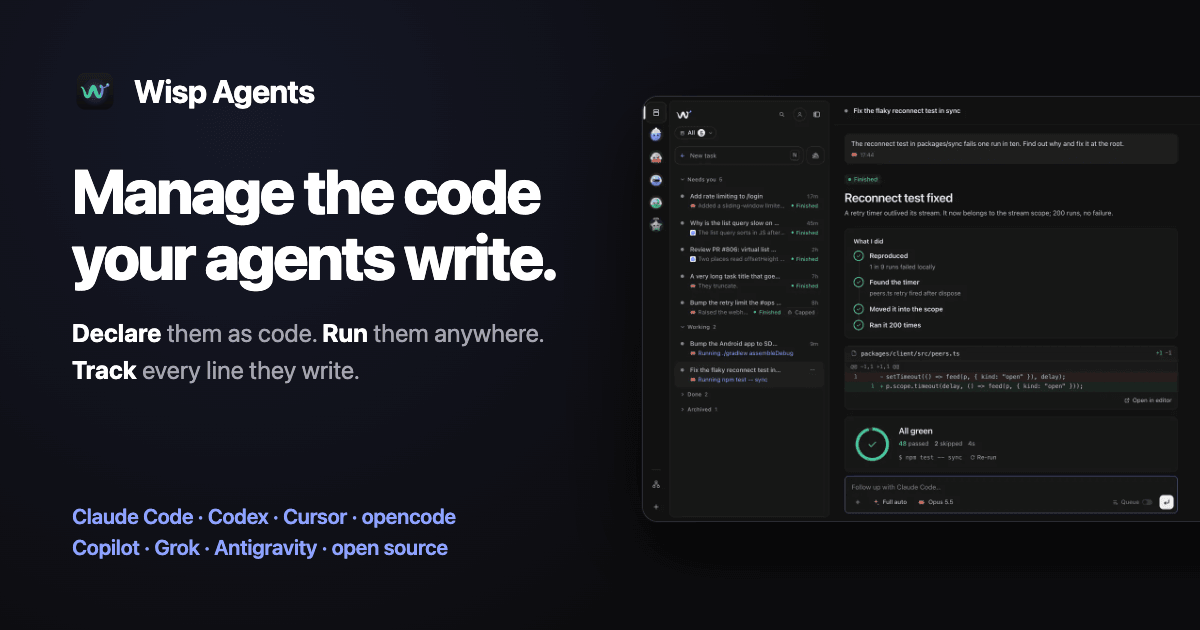
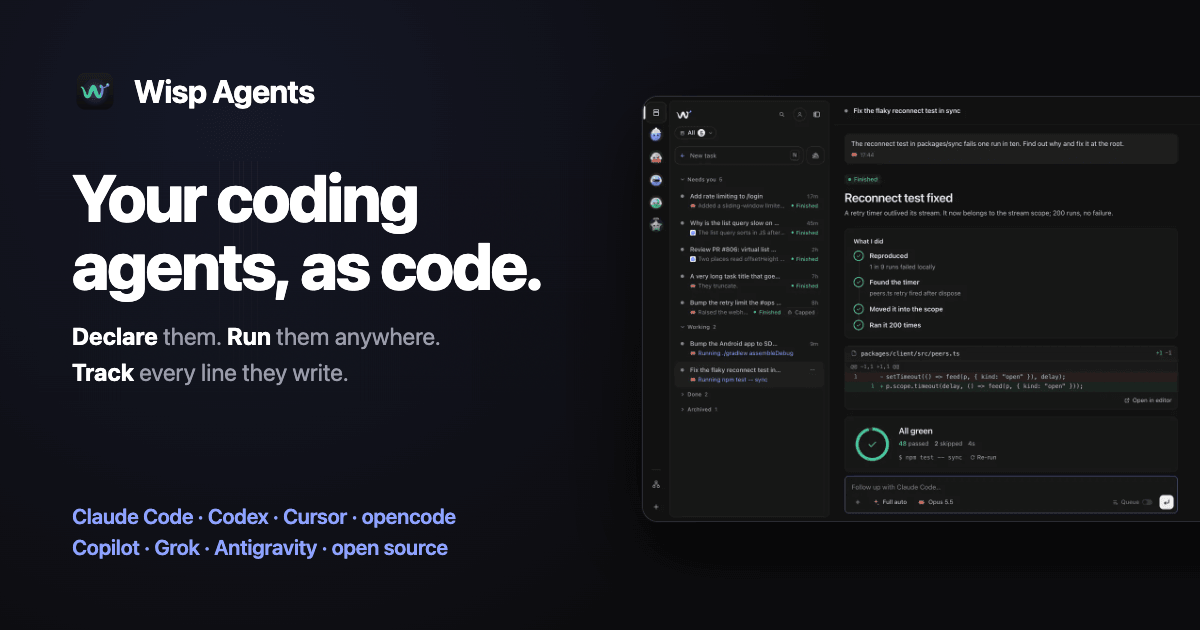
chore(site): headline 'Your coding agents, as code.' replaces 'Manage the code your agents write'
README, site (scripts/site.mjs, regenerated), docs hero and SEO alts, npm description, llms.txt and the og card.

Changed region(s): [[0.0617, 0.2714, 0.4625, 0.4825], [0.0617, 0.5127, 0.4625, 0.6032]]

diff --git a/docs/app.html b/docs/app.html
@@ -20,19 +20,19 @@
 <meta property="og:image" content="https://trywisp.dev/assets/og.png" />
 <meta property="og:image:width" content="1200" />
 <meta property="og:image:height" content="630" />
-<meta property="og:image:alt" content="Wisp Agents: manage the code your agents write" />
+<meta property="og:image:alt" content="Wisp Agents: your coding agents, as code" />
 <meta name="twitter:card" content="summary_large_image" />
 <meta name="twitter:site" content="@trywispagents" />
 <meta name="twitter:title" content="Download Wisp Agents — macOS, Windows, Linux &amp; Phone" />
 <meta name="twitter:description" content="Download the Wisp Agents desktop app for macOS, Windows and Linux, or join the iPhone and Android waitlist. Run and follow coding agents from anywhere." />
 <meta name="twitter:image" content="https://trywisp.dev/assets/og.png" />
-<meta name="twitter:image:alt" content="Wisp Agents: manage the code your agents write" />
+<meta name="twitter:image:alt" content="Wisp Agents: your coding agents, as code" />
 <link rel="icon" href="/favicon.ico" sizes="48x48" />
 <link rel="icon" href="/assets/icon.svg" type="image/svg+xml" />
 <link rel="apple-touch-icon" href="/assets/apple-touch-icon.png" sizes="180x180" />
 <link rel="sitemap" type="application/xml" href="/sitemap.xml" />
 <link rel="alternate" type="text/plain" href="/llms.txt" title="llms.txt" />
-<script type="application/ld+json">{"@context":"https://schema.org","@graph":[{"@type":"BreadcrumbList","itemListElement":[{"@type":"ListItem","position":1,"name":"Wisp Agents","item":"https://trywisp.dev/"},{"@type":"ListItem","position":2,"name":"Get the app","item":"https://trywisp.dev/app.html"}]},{"@type":"SoftwareApplication","@id":"https://trywisp.dev/app.html#app","name":"Wisp Agents","alternateName":["wisp","wisp-agents"],"softwareVersion":"1.0.0-alpha.14","url":"https://trywisp.dev/","description":"Open-source app, TUI and CLI to run Claude Code, Codex, Cursor and other coding agents in parallel, declare them as code, and track every line they write.","applicationCategory":"DeveloperApplication","operatingSystem":"macOS, Windows, Linux","license":"https://opensource.org/licenses/MIT","codeRepository":"https://github.com/WispAgents/wisp","offers":{"@type":"Offer","price":"0","priceCurrency":"USD"},"downloadUrl":"https://github.com/WispAgents/wisp/releases/latest","installUrl":"https://trywisp.dev/app.html","softwareHelp":"https://trywisp.dev/docs/","screenshot":"https://trywisp.dev/assets/app/desktop-task-light-1440.webp","author":{"@id":"https://trywisp.dev/#org"}}]}</script>
+<script type="application/ld+json">{"@context":"https://schema.org","@graph":[{"@type":"BreadcrumbList","itemListElement":[{"@type":"ListItem","position":1,"name":"Wisp Agents","item":"https://trywisp.dev/"},{"@type":"ListItem","position":2,"name":"Get the app","item":"https://trywisp.dev/app.html"}]},{"@type":"SoftwareApplication","@id":"https://trywisp.dev/app.html#app","name":"Wisp Agents","alternateName":["wisp","wisp-agents"],"softwareVersion":"1.0.0-alpha.16","url":"https://trywisp.dev/","description":"Open-source app, TUI and CLI to run Claude Code, Codex, Cursor and other coding agents in parallel, declare them as code, and track every line they write.","applicationCategory":"DeveloperApplication","operatingSystem":"macOS, Windows, Linux","license":"https://opensource.org/licenses/MIT","codeRepository":"https://github.com/WispAgents/wisp","offers":{"@type":"Offer","price":"0","priceCurrency":"USD"},"downloadUrl":"https://github.com/WispAgents/wisp/releases/latest","installUrl":"https://trywisp.dev/app.html","softwareHelp":"https://trywisp.dev/docs/","screenshot":"https://trywisp.dev/assets/app/desktop-task-light-1440.webp","author":{"@id":"https://trywisp.dev/#org"}}]}</script>
 <style>:root{color-scheme:light dark;--bg:#f7f6f3;--bg2:#efede8;--card:#ffffff;--fg:#17171a;--muted:#55555e;--line:#e3e1db;--accent:#3f5ce0;--accent-fg:#ffffff;--ok:#157f4a;--code:#f1efea;--shadow:0 1px 2px rgb(0 0 0 / 0.05),0 12px 40px -12px rgb(20 20 40 / 0.18);--r:14px;--mono:ui-monospace,'SF Mono',SFMono-Regular,Menlo,Consolas,'Liberation Mono',monospace;--sans:system-ui,-apple-system,'Segoe UI',Roboto,'Helvetica Neue',Arial,sans-serif;--wrap:1160px;--pad:clamp(16px,4vw,32px)}@media (prefers-color-scheme:dark){:root{--bg:#0d0d0f;--bg2:#131316;--card:#17171b;--fg:#ececf0;--muted:#a0a0ab;--line:#2a2a30;--accent:#8ea2ff;--accent-fg:#0d0d0f;--ok:#4ccf8a;--code:#1b1b20;--shadow:0 1px 2px rgb(0 0 0 / 0.4),0 20px 50px -20px rgb(0 0 0 / 0.7)}}*,*::before,*::after{box-sizing:border-box}html{-webkit-text-size-adjust:100%;scroll-padding-top:72px}body{margin:0;background:var(--bg);color:var(--fg);font:16px/1.6 var(--sans);overflow-wrap:break-word}img{max-width:100%;height:auto;display:block}a{color:var(--accent);text-underline-offset:3px}a:hover{text-decoration-thickness:2px}:focus-visible{outline:2px solid var(--accent);outline-offset:2px;border-radius:6px}h1,h2,h3{line-height:1.15;letter-spacing:-0.02em;margin:0 0 0.5em;text-wrap:balance}h1{font-size:clamp(2.1rem,5.6vw,3.9rem);letter-spacing:-0.025em}h2{font-size:clamp(1.6rem,3.6vw,2.4rem)}h3{font-size:1.15rem;letter-spacing:-0.01em}p{margin:0 0 1em}code,kbd,pre{font-family:var(--mono);font-size:0.9em}:not(pre)>code{background:var(--code);border:1px solid var(--line);border-radius:6px;padding:0.1em 0.35em}kbd{border:1px solid var(--line);border-bottom-width:2px;border-radius:5px;padding:0 0.35em;background:var(--card)}pre{margin:0;padding:16px 18px;background:var(--code);border:1px solid var(--line);border-radius:10px;overflow-x:auto;line-height:1.55;font-size:0.86rem}.wrap{max-width:var(--wrap);margin:0 auto;padding:0 var(--pad)}.muted{color:var(--muted)}.skip{position:absolute;left:-999px;top:8px;background:var(--card);padding:8px 12px;border-radius:8px;z-index:10}.skip:focus{left:8px}.sr{position:absolute;width:1px;height:1px;overflow:hidden;clip:rect(0 0 0 0);white-space:nowrap}.nav{position:sticky;top:0;z-index:5;background:color-mix(in srgb,var(--bg) 86%,transparent);backdrop-filter:saturate(1.4) blur(12px);-webkit-backdrop-filter:saturate(1.4) blur(12px);border-bottom:1px solid var(--line)}.nav-in{display:flex;align-items:center;gap:20px;height:60px}.brand{display:inline-flex;align-items:center;gap:8px;color:var(--fg);text-decoration:none;font-weight:700;font-size:1.15rem;letter-spacing:-0.02em;white-space:nowrap}.brand svg{width:30px;height:20px}.alpha-note{margin:8px 0 0}.alpha{flex:none;display:inline-flex;align-items:center;height:20px;padding:0 8px;margin-left:-10px;border:1px solid var(--accent);border-radius:999px;background:color-mix(in srgb,var(--accent) 12%,var(--bg));color:var(--accent);font-size:0.7rem;font-weight:700;letter-spacing:0.06em;text-transform:uppercase;white-space:nowrap}.links{display:flex;gap:4px;margin-left:8px;flex:1;min-width:0;overflow:hidden}.links a{color:var(--muted);text-decoration:none;padding:6px 10px;border-radius:8px;white-space:nowrap;font-size:0.95rem}.links a:hover,.links a[aria-current]{color:var(--fg);background:var(--bg2)}.nav .btn{padding:7px 14px;font-size:0.92rem}.gh{margin-left:auto;display:inline-flex;align-items:center;gap:6px;color:var(--muted);text-decoration:none;font-size:0.92rem;white-space:nowrap}.gh svg{width:18px;height:18px}@media (max-width:860px){.links .opt{display:none}}@media (max-width:620px){.links{display:none}.gh span{display:none}.nav-in{gap:12px}}@media (max-width:420px){.nav-in{gap:8px}.brand{font-size:0.98rem;gap:6px}.alpha{margin-left:-4px;padding:0 6px;font-size:0.65rem}.nav .btn{padding:6px 11px;font-size:0.85rem}}.btn{display:inline-flex;align-items:center;justify-content:center;gap:8px;padding:11px 18px;border-radius:999px;font-weight:600;font-size:1rem;text-decoration:none;border:1px solid transparent;cursor:pointer;white-space:nowrap;font-family:inherit;line-height:1.2}.btn.primary{background:var(--fg);color:var(--bg)}.btn.primary:hover{opacity:0.88}.btn.ghost{background:var(--card);color:var(--fg);border-color:var(--line)}.btn.ghost:hover{border-color:var(--muted)}.btn svg{width:18px;height:18px;flex:none}.hero{padding:clamp(40px,8vw,88px) 0 24px;text-align:center}.kicker{display:inline-flex;flex-wrap:wrap;justify-content:center;gap:6px 10px;align-items:center;font-size:0.86rem;color:var(--muted);border:1px solid var(--line);background:var(--card);padding:5px 14px;border-radius:999px;margin-bottom:22px}.kicker b{color:var(--fg);font-weight:600}.hero h1{max-width:15ch;margin:0 auto 18px}.lede{font-size:clamp(1.08rem,2.2vw,1.3rem);color:var(--muted);max-width:40em;margin:0 auto 28px}.lede b{color:var(--fg);font-weight:600}.cta{display:flex;flex-wrap:wrap;gap:12px;justify-content:center;align-items:center}.install{display:flex;align-items:center;gap:10px;background:var(--card);border:1px solid var(--line);border-radius:999px;padding:6px 6px 6px 18px;font-family:var(--mono);font-size:0.95rem;max-width:100%}.install code{white-space:nowrap;overflow:hidden;text-overflow:ellipsis;background:none;border:0;padding:0}.install .dollar{color:var(--muted);user-select:none}.copy{display:inline-grid;place-items:center;width:34px;height:34px;border-radius:999px;border:0;background:var(--bg2);color:var(--fg);cursor:pointer;flex:none}.copy svg{width:16px;height:16px}.copy[data-done]{color:var(--ok)}.small{font-size:0.88rem}.stage{position:relative;margin:clamp(36px,6vw,64px) auto 0;max-width:1080px;padding-bottom:40px}.window{border-radius:14px;overflow:hidden;border:1px solid var(--line);background:var(--card);box-shadow:var(--shadow)}.window .bar{display:flex;gap:7px;padding:10px 12px;border-bottom:1px solid var(--line);background:var(--bg2)}.window .bar i{width:11px;height:11px;border-radius:50%;background:var(--line)}.phone{width:clamp(150px,24%,260px);border-radius:30px;overflow:hidden;border:6px solid #111;background:#111;box-shadow:0 0 0 1px var(--line),var(--shadow)}.phone img{border-radius:24px}.stage .phone{position:absolute;right:-2%;bottom:0}@media (max-width:700px){.stage .phone{right:2%;width:34%;border-width:4px;border-radius:22px}.stage .phone img{border-radius:18px}}figure{margin:0}figcaption{font-size:0.86rem;color:var(--muted);margin-top:10px;text-align:center}section{padding:clamp(56px,9vw,104px) 0 0}.eyebrow{font-size:0.8rem;font-weight:700;letter-spacing:0.08em;text-transform:uppercase;color:var(--accent);margin:0 0 10px}.sec-head{max-width:46em;margin-bottom:32px}.sec-head p{color:var(--muted);font-size:1.08rem}.center{text-align:center;margin-left:auto;margin-right:auto}.lead-h{font-size:1.05rem;font-weight:400;letter-spacing:0;color:var(--muted);text-align:center;margin:0}.logos{display:flex;flex-wrap:wrap;gap:10px 12px;justify-content:center;list-style:none;padding:0;margin:28px 0 0}.logos a,.logos li>span{display:inline-flex;align-items:center;gap:8px;padding:8px 14px;border:1px solid var(--line);border-radius:999px;background:var(--card);color:var(--fg);text-decoration:none;font-size:0.94rem;white-space:nowrap}.logos a:hover{border-color:var(--muted)}.logos img{width:20px;height:20px}@media (prefers-color-scheme:dark){img.mono{filter:invert(1)}}.grid{display:grid;gap:16px;grid-template-columns:repeat(auto-fill,minmax(min(100%,300px),1fr))}.card{background:var(--card);border:1px solid var(--line);border-radius:var(--r);padding:22px;display:flex;flex-direction:column;gap:8px;min-width:0}.card h3{margin:0}.card p{margin:0;color:var(--muted)}.card pre{margin-top:auto;padding:10px 12px;font-size:0.8rem}.card a.more{margin-top:4px;font-weight:600;text-decoration:none;font-size:0.94rem}.card a.more:hover{text-decoration:underline}.why{display:grid;gap:16px;grid-template-columns:repeat(auto-fit,minmax(min(100%,240px),1fr))}.why .card{background:transparent}.num{font-size:0.85rem;font-family:var(--mono);color:var(--accent)}.pillar{display:grid;grid-template-columns:minmax(0,5fr) minmax(0,6fr);gap:clamp(24px,4vw,56px);align-items:start}.pillar + .pillar{margin-top:clamp(48px,7vw,88px)}@media (max-width:880px){.pillar{grid-template-columns:1fr}}.pillar ul{padding-left:1.1em;margin:0 0 1em}.pillar li{margin:0.3em 0}.tag{display:inline-block;font-size:0.72rem;font-weight:700;letter-spacing:0.06em;text-transform:uppercase;color:var(--accent);border:1px solid var(--accent);border-radius:999px;padding:1px 8px;vertical-align:middle;margin-left:6px}.ways{background:var(--card);border:1px solid var(--line);border-radius:var(--r);overflow:hidden;min-width:0}.ways-tabs{display:flex;gap:2px;padding:6px;border-bottom:1px solid var(--line);background:var(--bg2);overflow-x:auto}.ways-tabs button{font:inherit;font-size:0.9rem;font-weight:600;color:var(--muted);background:none;border:0;border-radius:8px;padding:6px 12px;cursor:pointer;white-space:nowrap}.ways-tabs .label{margin-left:auto;align-self:center;font-size:0.78rem;color:var(--muted);padding-right:6px;white-space:nowrap}@media (max-width:560px){.ways-tabs .label{display:none}}.way{padding:16px}.way pre{border:0;padding:0;background:none;font-size:0.84rem}.way ol,.way ul{margin:0;padding-left:1.2em}.way li{margin:0.25em 0}.way p:last-child{margin-bottom:0}.way-shot{margin-top:16px}.way-shot.is-phone{display:flex;justify-content:center}.way-shot .phone{width:min(60%,200px)}.way-shot .window{box-shadow:none}html:not([data-way='phone']):not([data-way='tui']):not([data-way='cli']) .way:not([data-k='desktop']),html[data-way='phone'] .way:not([data-k='phone']),html[data-way='tui'] .way:not([data-k='tui']),html[data-way='cli'] .way:not([data-k='cli']){display:none}.ways-tabs button[data-way-pick]{color:var(--muted);background:none;box-shadow:none}html:not([data-way='phone']):not([data-way='tui']):not([data-way='cli']) [data-way-pick='desktop'],html[data-way='phone'] [data-way-pick='phone'],html[data-way='tui'] [data-way-pick='tui'],html[data-way='cli'] [data-way-pick='cli']{color:var(--fg);background:var(--card);box-shadow:0 1px 2px rgb(0 0 0 / 0.08)}.term{background:#0f0f12;color:#e6e6ea;border-color:#26262b}.term .c{color:#8a8a96}.term .k{color:#9fb1ff}.term .s{color:#8fdcab}.term .y{color:#f1c27d}.term .r{color:#ff9b9b}.apps{display:grid;grid-template-columns:minmax(0,1fr) minmax(0,1fr);gap:16px}@media (max-width:880px){.apps{grid-template-columns:1fr}}.app-card{background:var(--card);border:1px solid var(--line);border-radius:20px;padding:clamp(20px,3vw,32px);display:flex;flex-direction:column;gap:14px;overflow:hidden;min-width:0}.app-card h3{font-size:1.5rem;margin:0}.dl{display:flex;flex-wrap:wrap;gap:8px}.dl a{font-size:0.92rem}.app-shots{display:flex;gap:14px;justify-content:center;align-items:flex-start;padding-top:4px}.app-shots .phone{width:min(44%,210px)}.app-shots .window{width:100%}.app-card.desk .app-shots{flex:1 1 auto;min-height:0;align-items:stretch}.app-card.desk .window{display:flex;flex-direction:column}@media (min-width:881px){.app-card.desk .app-shots{min-height:260px}.app-card.desk .window picture{flex:1 1 0;min-height:0;display:block}.app-card.desk .window img{width:100%;height:100%;object-fit:cover;object-position:left top}}.wl{display:grid;gap:10px}.wl-row{display:flex;gap:8px;flex-wrap:wrap}.wl input[type='email']{flex:1 1 220px;min-width:0;font:inherit;padding:11px 16px;border-radius:999px;border:1px solid var(--line);background:var(--bg);color:var(--fg)}.wl input[type='email'][aria-invalid='true']{border-color:#d93a3a}.wl fieldset{border:0;padding:0;margin:0;display:flex;flex-wrap:wrap;gap:6px 14px;align-items:center;font-size:0.94rem}.wl legend{float:left;margin-right:6px;color:var(--muted)}.wl label{display:inline-flex;gap:6px;align-items:center;cursor:pointer;white-space:nowrap}.wl .msg{min-height:1.5em;font-size:0.94rem;margin:0}.wl .msg.err{color:#d93a3a}@media (prefers-color-scheme:dark){.wl .msg.err{color:#ff8a8a}.wl input[type='email'][aria-invalid='true']{border-color:#ff8a8a}}.thanks{border:1px solid var(--ok);border-radius:14px;padding:14px 16px;color:var(--fg)}.thanks b{color:var(--ok)}.stats{display:grid;grid-template-columns:repeat(auto-fit,minmax(min(100%,200px),1fr));gap:16px}.stat{border-top:2px solid var(--fg);padding-top:14px}.stat b{display:block;font-size:clamp(1.9rem,4vw,2.6rem);letter-spacing:-0.03em;line-height:1.1}.stat span{color:var(--muted);font-size:0.94rem}.faq{max-width:820px;margin:0 auto}.faq details{border-bottom:1px solid var(--line);padding:4px 0}.faq summary{cursor:pointer;font-weight:600;padding:14px 28px 14px 0;list-style:none;position:relative}.faq summary::-webkit-details-marker{display:none}.faq summary::after{content:'+';position:absolute;right:4px;top:12px;font-size:1.3rem;color:var(--muted)}.faq details[open] summary::after{content:'−'}.faq details p{color:var(--muted)}.close{text-align:center;padding-bottom:clamp(56px,9vw,104px)}.close h2{font-size:clamp(2rem,5vw,3.2rem)}.foot{border-top:1px solid var(--line);padding:36px 0 48px;font-size:0.92rem}.foot-in{display:grid;grid-template-columns:1.4fr repeat(3,1fr);gap:24px}@media (max-width:760px){.foot-in{grid-template-columns:1fr 1fr}}.foot h2{font-size:0.8rem;text-transform:uppercase;letter-spacing:0.08em;color:var(--muted);margin:0 0 10px}.foot ul{list-style:none;padding:0;margin:0;display:grid;gap:6px}.foot a{color:var(--fg);text-decoration:none}.foot a:hover{text-decoration:underline}.doc{padding:clamp(32px,6vw,64px) 0 72px}.doc-head{max-width:50em;margin-bottom:28px}.doc-head .lede{margin:0 0 20px}.crumbs ol{list-style:none;padding:0;margin:0 0 18px;display:flex;flex-wrap:wrap;gap:6px;font-size:0.88rem;color:var(--muted)}.crumbs li + li::before{content:'/';margin-right:6px;color:var(--line)}.crumbs a{color:var(--muted)}.prose{max-width:46em}.prose h2{font-size:1.5rem;margin-top:1.8em}.prose h3{margin-top:1.4em}.prose ul,.prose ol{padding-left:1.3em}.prose li{margin:0.3em 0}.prose pre{margin:0 0 1.2em}.prose table{border-collapse:collapse;width:100%;display:block;overflow-x:auto;margin:0 0 1.2em;font-size:0.94rem}.prose th,.prose td{border:1px solid var(--line);padding:8px 10px;text-align:left;vertical-align:top}.prose blockquote{margin:0 0 1em;padding-left:14px;border-left:3px solid var(--line);color:var(--muted)}.two{display:grid;grid-template-columns:minmax(0,1fr) 240px;gap:40px}@media (max-width:900px){.two{grid-template-columns:1fr}.toc{order:-1}}.toc{font-size:0.9rem}.toc ul{list-style:none;padding:0;margin:0;display:grid;gap:6px;position:sticky;top:80px}.toc a{color:var(--muted);text-decoration:none}.toc a:hover{color:var(--fg)}.rel-week{border-bottom:1px solid var(--line);padding:8px 0}.rel-week>summary{cursor:pointer;display:flex;gap:12px;flex-wrap:wrap;align-items:baseline;padding:8px 0}.release h2{font-size:1.2rem;display:flex;gap:10px;align-items:baseline}.release time{font-size:0.86rem;color:var(--muted);font-weight:400}.table{width:100%;border-collapse:collapse;font-size:0.94rem}.table th,.table td{text-align:left;padding:10px 12px;border-bottom:1px solid var(--line);vertical-align:top}.table td code{font-size:0.82rem}.table td a{white-space:nowrap}.scroll-x{overflow-x:auto}.agent-head{display:flex;align-items:center;gap:14px;margin-bottom:12px}.agent-head img{width:44px;height:44px}@media (prefers-reduced-motion:no-preference){.btn,.card,.logos a{transition:border-color 0.15s,opacity 0.15s}}</style>
 </head>
 <body>
@@ -127,7 +127,7 @@
   <div class="wrap foot-in">
     <div>
       <a class="brand" href="/"><img src="/assets/favicon-48.png" alt="" width="26" height="26" />Wisp Agents</a>
-      <p class="muted small" style="margin-top:10px">Manage the code your agents write.<br />Open source, MIT. Runs on your machines.</p>
+      <p class="muted small" style="margin-top:10px">Your coding agents, as code.<br />Open source, MIT. Runs on your machines.</p>
     </div>
     <div><h2>Product</h2><ul>
       <li><a href="/app.html">Desktop and phone apps</a></li>

diff --git a/docs/index.html b/docs/index.html
@@ -4,7 +4,7 @@
 <meta charset="utf-8" />
 <meta name="viewport" content="width=device-width, initial-scale=1" />
 <script>try{var r=document.documentElement,l=localStorage.getItem('starlight-synced-tabs__way'),k={'Desktop app':'desktop','Phone app':'phone','TUI':'tui','CLI':'cli'}[l];if(!k){var n=navigator,m=n.userAgentData&&n.userAgentData.mobile;k=m||matchMedia('(max-width: 700px) and (pointer: coarse)').matches||/iPhone|iPod|Android.+Mobile/.test(n.userAgent)?'phone':'desktop'}r.dataset.way=k}catch(e){}</script>
-<title>Wisp Agents — Manage the code your coding agents write</title>
+<title>Wisp Agents — Your coding agents, as code</title>
 <meta name="description" content="Wisp Agents is an open-source app, TUI and CLI to run Claude Code, Codex and Cursor in parallel, declare agents as code, and track every line they write." />
 <link rel="canonical" href="https://trywisp.dev/" />
 <meta name="robots" content="index, follow, max-image-preview:large" />
@@ -15,18 +15,18 @@
 <meta property="og:locale" content="en_US" />
 <meta property="og:site_name" content="Wisp Agents" />
 <meta property="og:url" content="https://trywisp.dev/" />
-<meta property="og:title" content="Wisp Agents — Manage the code your coding agents write" />
+<meta property="og:title" content="Wisp Agents — Your coding agents, as code" />
 <meta property="og:description" content="Wisp Agents is an open-source app, TUI and CLI to run Claude Code, Codex and Cursor in parallel, declare agents as code, and track every line they write." />
 <meta property="og:image" content="https://trywisp.dev/assets/og.png" />
 <meta property="og:image:width" content="1200" />
 <meta property="og:image:height" content="630" />
-<meta property="og:image:alt" content="Wisp Agents: manage the code your agents write" />
+<meta property="og:image:alt" content="Wisp Agents: your coding agents, as code" />
 <meta name="twitter:card" content="summary_large_image" />
 <meta name="twitter:site" content="@trywispagents" />
-<meta name="twitter:title" content="Wisp Agents — Manage the code your coding agents write" />
+<meta name="twitter:title" content="Wisp Agents — Your coding agents, as code" />
 <meta name="twitter:description" content="Wisp Agents is an open-source app, TUI and CLI to run Claude Code, Codex and Cursor in parallel, declare agents as code, and track every line they write." />
 <meta name="twitter:image" content="https://trywisp.dev/assets/og.png" />
-<meta name="twitter:image:alt" content="Wisp Agents: manage the code your agents write" />
+<meta name="twitter:image:alt" content="Wisp Agents: your coding agents, as code" />
 <link rel="icon" href="/favicon.ico" sizes="48x48" />
 <link rel="icon" href="/assets/icon.svg" type="image/svg+xml" />
 <link rel="apple-touch-icon" href="/assets/apple-touch-icon.png" sizes="180x180" />
@@ -57,8 +57,8 @@
 <div class="wrap">
   <section class="hero" aria-labelledby="hero-h">
     <p class="kicker"><b>Wisp Agents</b> · Open source · MIT</p>
-    <h1 id="hero-h">Manage the code your agents write.</h1>
-    <p class="lede"><b>Declare</b> your coding agents as code. <b>Run</b> them anywhere, many at once. <b>Track</b> every line they write, right next to your code. From the desktop app, your phone or the terminal.</p>
+    <h1 id="hero-h">Your coding agents, as code.</h1>
+    <p class="lede"><b>Declare</b> them. <b>Run</b> them anywhere. <b>Track</b> every line they write. From the desktop app, your phone or the terminal.</p>
     <div class="cta" id="install">
       <div class="install"><span class="dollar" aria-hidden="true">$</span><code>npx wisp-agents</code><button class="copy" type="button" data-copy="npx wisp-agents" aria-label="Copy command"><svg viewBox="0 0 24 24" fill="none" stroke="currentColor" stroke-width="1.8" stroke-linecap="round" stroke-linejoin="round" aria-hidden="true"><rect x="9" y="9" width="11" height="11" rx="2"/><path d="M5 15V6a2 2 0 0 1 2-2h9"/></svg></button></div>
       <a class="btn primary" href="/app.html" data-dl="hero"><svg viewBox="0 0 24 24" fill="none" stroke="currentColor" stroke-width="2" stroke-linecap="round" stroke-linejoin="round" aria-hidden="true"><path d="M12 4v11M7 10.5l5 5 5-5M5 20h14"/></svg>Get the app</a>
@@ -354,7 +354,7 @@ wisp grid serve   <span class="muted"># run a Grid on your own server</span></co
   <div class="wrap foot-in">
     <div>
       <a class="brand" href="/"><img src="/assets/favicon-48.png" alt="" width="26" height="26" />Wisp Agents</a>
-      <p class="muted small" style="margin-top:10px">Manage the code your agents write.<br />Open source, MIT. Runs on your machines.</p>
+      <p class="muted small" style="margin-top:10px">Your coding agents, as code.<br />Open source, MIT. Runs on your machines.</p>
     </div>
     <div><h2>Product</h2><ul>
       <li><a href="/app.html">Desktop and phone apps</a></li>

diff --git a/docs/cloud.html b/docs/cloud.html
@@ -20,13 +20,13 @@
 <meta property="og:image" content="https://trywisp.dev/assets/og.png" />
 <meta property="og:image:width" content="1200" />
 <meta property="og:image:height" content="630" />
-<meta property="og:image:alt" content="Wisp Agents: manage the code your agents write" />
+<meta property="og:image:alt" content="Wisp Agents: your coding agents, as code" />
 <meta name="twitter:card" content="summary_large_image" />
 <meta name="twitter:site" content="@trywispagents" />
 <meta name="twitter:title" content="Wisp Agents Cloud — Run Coding Agents 24/7 on a Server" />
 <meta name="twitter:description" content="Wisp Agents Cloud runs your coding agents on a dedicated server when your laptop sleeps, reachable from any browser or phone. Or self-host a Wisp Grid." />
 <meta name="twitter:image" content="https://trywisp.dev/assets/og.png" />
-<meta name="twitter:image:alt" content="Wisp Agents: manage the code your agents write" />
+<meta name="twitter:image:alt" content="Wisp Agents: your coding agents, as code" />
 <link rel="icon" href="/favicon.ico" sizes="48x48" />
 <link rel="icon" href="/assets/icon.svg" type="image/svg+xml" />
 <link rel="apple-touch-icon" href="/assets/apple-touch-icon.png" sizes="180x180" />
@@ -95,7 +95,7 @@ wisp &quot;nightly dependency check&quot; --on cloud</code></pre></div>
   <div class="wrap foot-in">
     <div>
       <a class="brand" href="/"><img src="/assets/favicon-48.png" alt="" width="26" height="26" />Wisp Agents</a>
-      <p class="muted small" style="margin-top:10px">Manage the code your agents write.<br />Open source, MIT. Runs on your machines.</p>
+      <p class="muted small" style="margin-top:10px">Your coding agents, as code.<br />Open source, MIT. Runs on your machines.</p>
     </div>
     <div><h2>Product</h2><ul>
       <li><a href="/app.html">Desktop and phone apps</a></li>

diff --git a/CHANGELOG.md b/CHANGELOG.md
@@ -5,6 +5,10 @@ The format follows [Keep a Changelog](https://keepachangelog.com/en/1.1.0/), and
 
 ## [Unreleased]
 
+### Changed
+
+- **New headline: "Your coding agents, as code."** It replaces "Manage the code your agents write" on the site, the docs, the README, the npm package, llms.txt and the link preview card, with "Declare them. Run them anywhere. Track every line they write." under it.
+
 ### Fixed
 
 - **The CLI no longer runs your commands on another home's wisp.** With two homes (say `WISP_HOME=~/.wisp-work` beside `~/.wisp`), `wisp ls` and every other command used whichever wisp held the default port, so they listed and changed the other home's tasks. Each wisp now says which home it serves (a hash, never the path), and the CLI and `wisp desktop` refuse one that isn't theirs in one line: "port 4477 is the wisp for another home, not …: pass --port or run wisp serve". An older wisp that doesn't say is still used.

diff --git a/README.md b/README.md
@@ -4,10 +4,9 @@
 
 # Wisp Agents
 
-**Manage the code your agents write.**
+**Your coding agents, as code.**
 
-Declare your coding agents as code. Run them anywhere, many at once. Track every line they write, right next to your
-code. From the desktop app, the terminal UI, the command line or your phone.
+Declare them. Run them anywhere, many at once. Track every line they write, right next to your code. From the desktop app, the terminal UI, the command line or your phone.
 
 [![npm](https://img.shields.io/npm/v/wisp-agents?color=cb3837&logo=npm)](https://www.npmjs.com/package/wisp-agents)
 [![License: MIT](https://img.shields.io/badge/license-MIT-6a5cff.svg)](#license)
